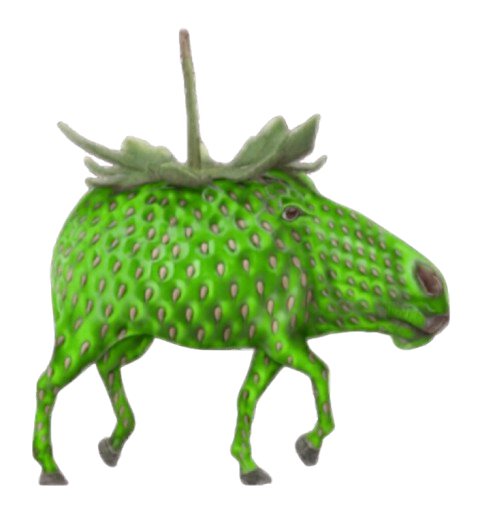
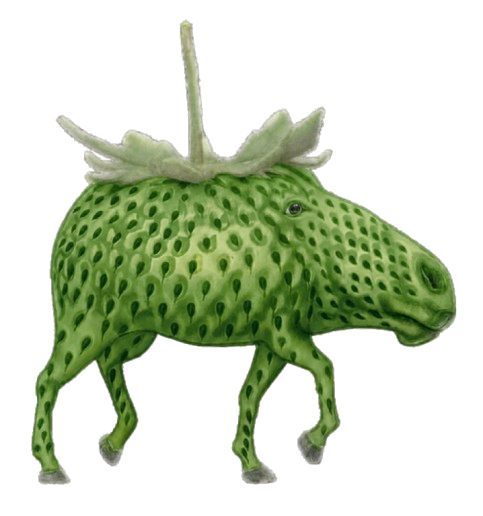
15 types of strawberries

Changed region(s): [[0.0586, 0.031, 0.9665, 0.9612]]

diff --git a/tony.html b/tony.html
@@ -52,54 +52,134 @@
             <h1>Strawberries (hover and see)</h1>
         </div>
         <div id="strawberryrow1">
-            <img src="redstrawberryelephant.png" id="elephant1">
-            <img src="redstrawberryelephant.png" id="elephant2">
-            <img src="redstrawberryelephant.png" id="elephant3">
-            <img src="redstrawberryelephant.png" id="elephant4">
-            <img src="redstrawberryelephant.png" id="elephant5">
-            <img src="redstrawberryelephant.png" id="elephant6">
-            <img src="redstrawberryelephant.png" id="elephant7">
-            <img src="redstrawberryelephant.png" id="elephant8">
+            <a href="redstrawberry.html">
+                <img src="whatstrawberryelephant.png" id="elephant1">
+            </a>
+            <a href="redstrawberry.html">
+                <img src="whatstrawberryelephant.png" id="elephant2">
+            </a>
+            <a href="redstrawberry.html">
+                <img src="whatstrawberryelephant.png" id="elephant3">
+            </a>
+            <a href="redstrawberry.html">
+                <img src="whatstrawberryelephant.png" id="elephant4">
+            </a>
+            <a href="redstrawberry.html">
+                <img src="whatstrawberryelephant.png" id="elephant5">
+            </a>
+            <a href="redstrawberry.html">
+                <img src="whatstrawberryelephant.png" id="elephant6">
+            </a>
+            <a href="redstrawberry.html">
+                <img src="whatstrawberryelephant.png" id="elephant7">
+            </a>
+            <a href="redstrawberry.html">
+                <img src="whatstrawberryelephant.png" id="elephant8">
+            </a>
         </div>
         <div id="strawberryrow2">
-            <img src="redstrawberryelephant.png" id="elephant9">
-            <img src="redstrawberryelephant.png" id="elephant10">
-            <img src="redstrawberryelephant.png" id="elephant11">
-            <img src="redstrawberryelephant.png" id="elephant12">
-            <img src="redstrawberryelephant.png" id="elephant13">
-            <img src="redstrawberryelephant.png" id="elephant14">
-            <img src="redstrawberryelephant.png" id="elephant15">
-            <img src="redstrawberryelephant.png" id="elephant16">
+            <a href="redstrawberry.html">
+                <img src="whatstrawberryelephant.png" id="elephant9">
+            </a>
+            <a href="redstrawberry.html">
+                <img src="whatstrawberryelephant.png" id="elephant10">
+            </a>
+            <a href="redstrawberry.html">
+                <img src="whatstrawberryelephant.png" id="elephant11">
+            </a>
+            <a href="redstrawberry.html">
+                <img src="whatstrawberryelephant.png" id="elephant12">
+            </a>
+            <a href="redstrawberry.html">
+                <img src="whatstrawberryelephant.png" id="elephant13">
+            </a>
+            <a href="redstrawberry.html">
+                <img src="whatstrawberryelephant.png" id="elephant14">
+            </a>
+            <a href="redstrawberry.html">
+                <img src="whatstrawberryelephant.png" id="elephant15">
+            </a>
+            <a href="redstrawberry.html">
+                <img src="whatstrawberryelephant.png" id="elephant16">
+            </a>
         </div>
         <div id="strawberryrow3">
-            <img src="redstrawberryelephant.png" id="elephant17">
-            <img src="redstrawberryelephant.png" id="elephant18">
-            <img src="redstrawberryelephant.png" id="elephant19">
-            <img src="redstrawberryelephant.png" id="elephant20">
-            <img src="redstrawberryelephant.png" id="elephant21">
-            <img src="redstrawberryelephant.png" id="elephant22">
-            <img src="redstrawberryelephant.png" id="elephant23">
-            <img src="redstrawberryelephant.png" id="elephant24">
+            <a href="redstrawberry.html">
+                <img src="whatstrawberryelephant.png" id="elephant17">
+            </a>
+            <a href="redstrawberry.html">
+                <img src="whatstrawberryelephant.png" id="elephant18">
+            </a>
+            <a href="redstrawberry.html">
+                <img src="whatstrawberryelephant.png" id="elephant19">
+            </a>
+            <a href="redstrawberry.html">
+                <img src="whatstrawberryelephant.png" id="elephant20">
+            </a>
+            <a href="redstrawberry.html">
+                <img src="whatstrawberryelephant.png" id="elephant21">
+            </a>
+            <a href="redstrawberry.html">
+                <img src="whatstrawberryelephant.png" id="elephant22">
+            </a>
+            <a href="redstrawberry.html">
+                <img src="whatstrawberryelephant.png" id="elephant23">
+            </a>
+            <a href="redstrawberry.html">
+                <img src="whatstrawberryelephant.png" id="elephant24">
+            </a>
         </div>
         <div id="strawberryrow4">
-            <img src="redstrawberryelephant.png" id="elephant25">
-            <img src="redstrawberryelephant.png" id="elephant26">
-            <img src="redstrawberryelephant.png" id="elephant27">
-            <img src="redstrawberryelephant.png" id="elephant28">
-            <img src="redstrawberryelephant.png" id="elephant29">
-            <img src="redstrawberryelephant.png" id="elephant30">
-            <img src="redstrawberryelephant.png" id="elephant31">
-            <img src="redstrawberryelephant.png" id="elephant32">
+            <a href="redstrawberry.html">
+                <img src="whatstrawberryelephant.png" id="elephant25">
+            </a>
+            <a href="redstrawberry.html">
+                <img src="whatstrawberryelephant.png" id="elephant26">
+            </a>
+            <a href="redstrawberry.html">
+                <img src="whatstrawberryelephant.png" id="elephant27">
+            </a>
+            <a href="redstrawberry.html">
+                <img src="whatstrawberryelephant.png" id="elephant28">
+            </a>
+            <a href="redstrawberry.html">
+                <img src="whatstrawberryelephant.png" id="elephant29">
+            </a>
+            <a href="redstrawberry.html">
+                <img src="whatstrawberryelephant.png" id="elephant30">
+            </a>
+            <a href="redstrawberry.html">
+                <img src="whatstrawberryelephant.png" id="elephant31">
+            </a>
+            <a href="redstrawberry.html">
+                <img src="whatstrawberryelephant.png" id="elephant32">
+            </a>
         </div>
         <div id="strawberryrow5">
-            <img src="redstrawberryelephant.png" id="elephant33">
-            <img src="redstrawberryelephant.png" id="elephant34">
-            <img src="redstrawberryelephant.png" id="elephant35">
-            <img src="redstrawberryelephant.png" id="elephant36">
-            <img src="redstrawberryelephant.png" id="elephant37">
-            <img src="redstrawberryelephant.png" id="elephant38">
-            <img src="redstrawberryelephant.png" id="elephant39">
-            <img src="redstrawberryelephant.png" id="elephant40">
+            <a href="redstrawberry.html">
+                <img src="whatstrawberryelephant.png" id="elephant33">
+            </a>
+            <a href="redstrawberry.html">
+                <img src="whatstrawberryelephant.png" id="elephant34">
+            </a>
+            <a href="redstrawberry.html">
+                <img src="whatstrawberryelephant.png" id="elephant35">
+            </a>
+            <a href="redstrawberry.html">
+                <img src="whatstrawberryelephant.png" id="elephant36">
+            </a>
+            <a href="redstrawberry.html">
+                <img src="whatstrawberryelephant.png" id="elephant37">
+            </a>
+            <a href="redstrawberry.html">
+                <img src="whatstrawberryelephant.png" id="elephant38">
+            </a>
+            <a href="redstrawberry.html">
+                <img src="whatstrawberryelephant.png" id="elephant39">
+            </a>
+            <a href="redstrawberry.html">
+                <img src="whatstrawberryelephant.png" id="elephant40">
+            </a>
         </div>
     </div>
 

diff --git a/global.css b/global.css
@@ -33,7 +33,7 @@ th, td{border-radius: 12px;}
 
 #strawberries h1{padding: 30px; text-align: center; color: lightgoldenrodyellow; font-family: 'Franklin Gothic Medium', 'Arial Narrow', Arial, sans-serif; font-weight: lighter;}
 #strawberryrow1{display: flex; text-align: center; align-items: center; padding:0px 100px;}
-#strawberryrow1 img{width: 10%;}
+#strawberryrow1 img{width: 100%;}
 #elephant1{flex: 1;}
 #elephant2{flex: 1;}
 #elephant3{flex: 1;}
@@ -42,17 +42,17 @@ th, td{border-radius: 12px;}
 #elephant6{flex: 1;}
 #elephant7{flex: 1;}
 #elephant8{flex: 1;}
-#elephant1:hover{content: url(bluestrawberryelephant.png);}
-#elephant2:hover{content: url(smallerbluestrawberryelephant.png);}
-#elephant3:hover{content: url(smallerbluestrawberryelephant.png);}
-#elephant4:hover{content: url(lightbluestrawberryelephamt.png);}
-#elephant5:hover{content: url(smallerbluestrawberryelephant.png);}
-#elephant6:hover{content: url(smallerbluestrawberryelephant.png);}
-#elephant7:hover{content: url(silverstrawberryelephant.png);}
-#elephant8:hover{content: url(smallerbluestrawberryelephant.png);}
+#elephant1:hover{content: url(smallerredstrawberryelephant.png);}
+#elephant2:hover{content: url(bluestrawberryelephant.png);}
+#elephant3:hover{content: url(smallerredstrawberryelephant.png);}
+#elephant4:hover{content: url(yellowstrawberryelephant.png);}
+#elephant5:hover{content: url(lightbluestrawberryelephamt.png);}
+#elephant6:hover{content: url(greenstrawberryelephant.png);}
+#elephant7:hover{content: url(purplestrawberryelephant.png);}
+#elephant8:hover{content: url(blackstrawberryelephant.png);}
 
 #strawberryrow2{display: flex; text-align: center; align-items: center; padding:0px 100px;}
-#strawberryrow2 img{width: 10%;}
+#strawberryrow2 img{width: 100%;}
 #elephant9{flex: 1;}
 #elephant10{flex: 1;}
 #elephant11{flex: 1;}
@@ -61,17 +61,17 @@ th, td{border-radius: 12px;}
 #elephant14{flex: 1;}
 #elephant15{flex: 1;}
 #elephant16{flex: 1;}
-#elephant9:hover{content: url(greenstrawberryelephant.png);}
-#elephant10:hover{content: url(greenstrawberryelephant.png);}
-#elephant11:hover{content: url(smallerbluestrawberryelephant.png);}
+#elephant9:hover{content: url(yellowstrawberryelephant.png);}
+#elephant10:hover{content: url(purplestrawberryelephant.png);}
+#elephant11:hover{content: url(pinkstrawberryelephant.png);}
 #elephant12:hover{content: url(greenstrawberryelephant.png);}
 #elephant13:hover{content: url(bluestrawberryelephant.png);}
-#elephant14:hover{content: url(goldenstrawberryelephant.png);}
-#elephant15:hover{content: url(purplestrawberryelephant.png);}
-#elephant16:hover{content: url(greenstrawberryelephant.png);}
+#elephant14:hover{content: url(skeletonstrawberryelephant.png);}
+#elephant15:hover{content: url(orangestawberryelephant.png);}
+#elephant16:hover{content: url(smallerredstrawberryelephant.png);}
 
 #strawberryrow3{display: flex; text-align: center; align-items: center; padding:0px 100px;}
-#strawberryrow3 img{width: 10%;}
+#strawberryrow3 img{width: 100%;}
 #elephant17{flex: 1;}
 #elephant18{flex: 1;}
 #elephant19{flex: 1;}
@@ -80,17 +80,17 @@ th, td{border-radius: 12px;}
 #elephant22{flex: 1;}
 #elephant23{flex: 1;}
 #elephant24{flex: 1;}
-#elephant17:hover{content: url(purplestrawberryelephant.png);}
-#elephant18:hover{content: url(smallerbluestrawberryelephant.png);}
+#elephant17:hover{content: url(lightbluestrawberryelephamt.png);}
+#elephant18:hover{content: url(robotstrawberryelephant.png);}
 #elephant19:hover{content: url(purplestrawberryelephant.png);}
-#elephant20:hover{content: url(purplestrawberryelephant.png);}
-#elephant21:hover{content: url(purplestrawberryelephant.png);}
-#elephant22:hover{content: url(purplestrawberryelephant.png);}
-#elephant23:hover{content: url(purplestrawberryelephant.png);}
-#elephant24:hover{content: url(lightbluestrawberryelephamt.png);}
+#elephant20:hover{content: url(glassstrawberryelephant.png);}
+#elephant21:hover{content: url(pinkstrawberryelephant.png);}
+#elephant22:hover{content: url(yellowstrawberryelephant.png);}
+#elephant23:hover{content: url(bronzestrawberryelephant.png);}
+#elephant24:hover{content: url(marblewhitestrawberryelephant.png);}
 
 #strawberryrow4{display: flex; text-align: center; align-items: center; padding:0px 100px;}
-#strawberryrow4 img{width: 10%;}
+#strawberryrow4 img{width: 100%;}
 #elephant25{flex: 1;}
 #elephant26{flex: 1;}
 #elephant27{flex: 1;}
@@ -99,17 +99,17 @@ th, td{border-radius: 12px;}
 #elephant30{flex: 1;}
 #elephant31{flex: 1;}
 #elephant32{flex: 1;}
-#elephant25:hover{content: url(smallerbluestrawberryelephant.png);}
-#elephant26:hover{content: url(smallerbluestrawberryelephant.png);}
-#elephant27:hover{content: url(purplestrawberryelephant.png);}
-#elephant28:hover{content: url(purplestrawberryelephant.png);}
-#elephant29:hover{content: url(lightbluestrawberryelephamt.png);}
-#elephant30:hover{content: url(purplestrawberryelephant.png);}
-#elephant31:hover{content: url(purplestrawberryelephant.png);}
-#elephant32:hover{content: url(orangestawberryelephant.png);}
+#elephant25:hover{content: url(blackstrawberryelephant.png);}
+#elephant26:hover{content: url(orangestawberryelephant.png);}
+#elephant27:hover{content: url(skeletonstrawberryelephant.png);}
+#elephant28:hover{content: url(silverstrawberryelephant.png);}
+#elephant29:hover{content: url(greenstrawberryelephant.png);}
+#elephant30:hover{content: url(robotstrawberryelephant.png);}
+#elephant31:hover{content: url(glassstrawberryelephant.png);}
+#elephant32:hover{content: url(purplestrawberryelephant.png);}
 
 #strawberryrow5{display: flex; text-align: center; align-items: center; padding:0px 100px 100px 100px;}
-#strawberryrow5 img{width: 10%;}
+#strawberryrow5 img{width: 100%;}
 #elephant33{flex: 1;}
 #elephant34{flex: 1;}
 #elephant35{flex: 1;}
@@ -118,14 +118,14 @@ th, td{border-radius: 12px;}
 #elephant38{flex: 1;}
 #elephant39{flex: 1;}
 #elephant40{flex: 1;}
-#elephant33:hover{content: url(silverstrawberryelephant.png);}
-#elephant34:hover{content: url(smallerbluestrawberryelephant.png);}
-#elephant35:hover{content: url(purplestrawberryelephant.png);}
-#elephant36:hover{content: url(smallerbluestrawberryelephant.png);}
-#elephant37:hover{content: url(lightbluestrawberryelephamt.png);}
-#elephant38:hover{content: url(purplestrawberryelephant.png);}
-#elephant39:hover{content: url(smallerbluestrawberryelephant.png);}
-#elephant40:hover{content: url(greenstrawberryelephant.png);}
+#elephant33:hover{content: url(marblewhitestrawberryelephant.png);}
+#elephant34:hover{content: url(bronzestrawberryelephant.png);}
+#elephant35:hover{content: url(goldenstrawberryelephant.png);}
+#elephant36:hover{content: url(blackstrawberryelephant.png);}
+#elephant37:hover{content: url(pinkstrawberryelephant.png);}
+#elephant38:hover{content: url(skeletonstrawberryelephant.png);}
+#elephant39:hover{content: url(silverstrawberryelephant.png);}
+#elephant40:hover{content: url(bluestrawberryelephant.png);}
 
 #spaghettibg{color:white; background-image: url(darkwall.png);background-position: center;background-size: 100%; background-repeat: no-repeat; text-align: center;}
 

diff --git a/index.html b/index.html
@@ -19,7 +19,8 @@
             </div>
         </div>
         <div id="indexcontent">
-            <h1></h1>
+            <button onclick="hello()">Click me</button>
+            <script> function hello() {alert("it's just a test button");}</script>
         </div>
     </div>
 </body>

diff --git a/strawberries.css b/strawberries.css
@@ -1,0 +1,12 @@
+* {
+    margin: 0;
+    padding: 0;
+}
+
+#red {
+    background-image: url(strawberrybg.jpg);
+    background-size: 100% 100%;
+    background-position: center;
+    background-repeat: no-repeat;
+    height:100%;
+}

diff --git a/redstrawberry.html b/redstrawberry.html
@@ -1,0 +1,11 @@
+<html>
+
+<head>
+    <title>redstrawberry</title>
+    <link rel="stylesheet" href="strawberries.css">
+</head>
+
+<body id="red">
+</body>
+
+</html>
